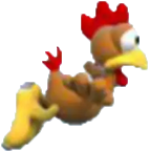
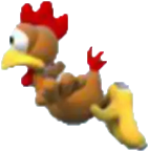
update

diff --git a/Práctica 4/Practica4.js b/Práctica 4/Practica4.js
@@ -1,6 +1,7 @@
 var dificultad=["FÁCIL","DIFÍCIL","HARCORE"];
 var audio=["Componentes/audio1.mp3","Componentes/audio2.mp3","Componentes/audio3.mp3"];
 var contador=0;
+posicionv=0;
 function crearPollo(){
     ele=document.createElement("div");
     ele.style.width="10%";
@@ -8,10 +9,9 @@ function crearPollo(){
     ele.style.backgroundImage="url(./Imagenes/pollo.png)";
     ele.id="pollo";
     ele.style.backgroundSize="cover";
-    ele.style.transition="display 0.5s";
+    ele.style.transition="all 1s ease 1s";
     ele.onclick=function(){
         numero=Math.floor(Math.random()*3);
-        console.log(numero);
         var sonido=new Audio(audio[numero]);
         sonido.play();
         this.style.display="none";
@@ -21,15 +21,14 @@ function crearPollo(){
 
 function crearPolloVolador(){
     ele=document.createElement("div");
-    ele.style.width="10%";
-    ele.style.height="20%";
-    ele.style.backgroundImage="url(./Imagenes/volandob.png)";
-    ele.id="pollo";
+    ele.style.width="6.25%";
+    ele.style.height="12.5%";
+    ele.style.backgroundImage="url(./Imagenes/volandoa.png)";
+    ele.id="pollov";
     ele.style.backgroundSize="cover";
-    ele.style.transition="display 0.5s";
+    ele.style.transition="all 1s ease 1s";
     ele.onclick=function(){
         numero=Math.floor(Math.random()*3);
-        console.log(numero);
         var sonido=new Audio(audio[numero]);
         sonido.play();
         this.style.display="none";
@@ -44,28 +43,29 @@ function jugar(){
     contenedor.append(c1);
     pollo=crearPollo();
     pollov=crearPolloVolador();
-    document.querySelector("#contenedor").append(pollo);
-    var int1=setInterval(function(){
-        if((contador%5)==0){
-            console.log(contador);
-            pollo.style.display="none";
+    setInterval(function(){
+        /*if((contador%5)==0){
             pollo=crearPollo();
             document.querySelector("#contenedor").append(pollo);
-            pollo.style.position="relative";
-            posicion1=Math.random()*55+1;
+            pollo.style.position="absolute";
             posicion2=Math.random()*80+1;
             pollo.style.top=70+"%";
             pollo.style.left=posicion2+"%";
-        }
-        pollov.style.display="none";
+            setTimeout(function(){
+                contenedor.removeChild(pollo);
+            },500);
+        }*/
         pollov.style.transition="position 1s";
-        pollov=crearPolloVolador();
-        document.querySelector("#contenedor").append(pollov);
         pollov.style.position="relative";
-        posicion1=Math.random()*55+1;
-        pollov.style.left=posicion1+"%";
+        pollov.style.left=posicionv+"%";
+        if(posicionv>95){
+            posicionv=0;
+            contenedor.removeChild(pollov);
+        }else{
+            posicionv=posicionv+10;
+        }
         contador++;
-    },1250);
+    },600);
 }
 
 function tiempo(){

diff --git a/Práctica 4/prueba2.js b/Práctica 4/prueba2.js
@@ -1,0 +1,50 @@
+
+            class Pollo{
+                direccionPollo=["url('./Imagenes/volandoa.png')","url(./Imagenes/volandob.png)"];
+                pollo=document.createElement("div");
+                audio=["Componentes/audio1.mp3","Componentes/audio2.mp3","Componentes/audio3.mp3"];
+
+                constructor(direccion){
+                    this.posicion="";
+                    this.incremento="";
+                    this.setPosicion=direccion;
+                    this.setIncremento=direccion;
+                    this.setFondo=direccion;
+                }
+
+                get getPosicion(){
+                    return this.posicion;
+                }
+
+                set setPosicion(direccion){
+                    direccion==1?this.posicion=0:this.posicion=100;
+                }
+
+                set setIncremento(direccion){
+                    direccion==1?this.incremento=-1:this.incremento=1;
+                }
+
+                get getIncremento(){
+                    return this.incremento;
+                }
+
+                set setFondo(direccion){
+                    direccion==1?this.pollo.style.backgroundImage=this.direccionPollo[0]:this.pollo.style.backgroundImage=this.direccionPollo[1];
+                }
+
+                get getPollo(){
+                    this.pollo.style.width="6.25%";
+                    this.pollo.style.height="12.5%";
+                    this.pollo.id="pollo";
+                    this.pollo.style.backgroundSize="contain";
+                    this.pollo.style.backgroundRepeat="no-repeat";
+                    this.pollo.onclick=function(){
+                        var numero=Math.floor(Math.random()*3);
+                        var sonido=new Audio(this.audio[numero]);
+                        sonido.play();
+                        this.style.display="none";
+                    }
+                    return this.pollo;
+                }
+
+            }

diff --git a/Práctica 4/Prueba.html b/Práctica 4/Prueba.html
@@ -1,0 +1,52 @@
+<html>
+    <head>
+        <meta charset="UTF-8">
+        <style>
+            #caja{
+                width: 5%;
+                height: 10%;
+                position: absolute;
+                top:50%;
+                left: 0;
+                background-image: url("./Imagenes/volandob.png");
+                background-size: contain;
+                background-repeat: no-repeat;
+                transition: all 1s;
+            }
+
+            #caja2{
+                top: 25%;
+            }
+
+           
+        </style>
+    </head>
+    <body>
+        <div id="padre">
+            <div id="caja"></div>
+            <div id="caja2"></div>
+        </div>
+        <script src="./prueba2.js"></script>
+        <script>
+            document.body.appendChild(new Pollo(0).getPollo);
+            var start = null;
+            var element = document.getElementById('pollo');
+            var posicion=element.posicion;
+            var req1;
+
+            function step() {
+            posicion=posicion+element.incremento;
+            element.style.left = posicion+"%";
+            if (posicion<90) {
+                req1=window.requestAnimationFrame(step);
+            }else{
+                cancelAnimationFrame(req1);
+            }
+            }
+
+            window.requestAnimationFrame(step);
+
+            
+        </script>
+    </body>
+</html>
